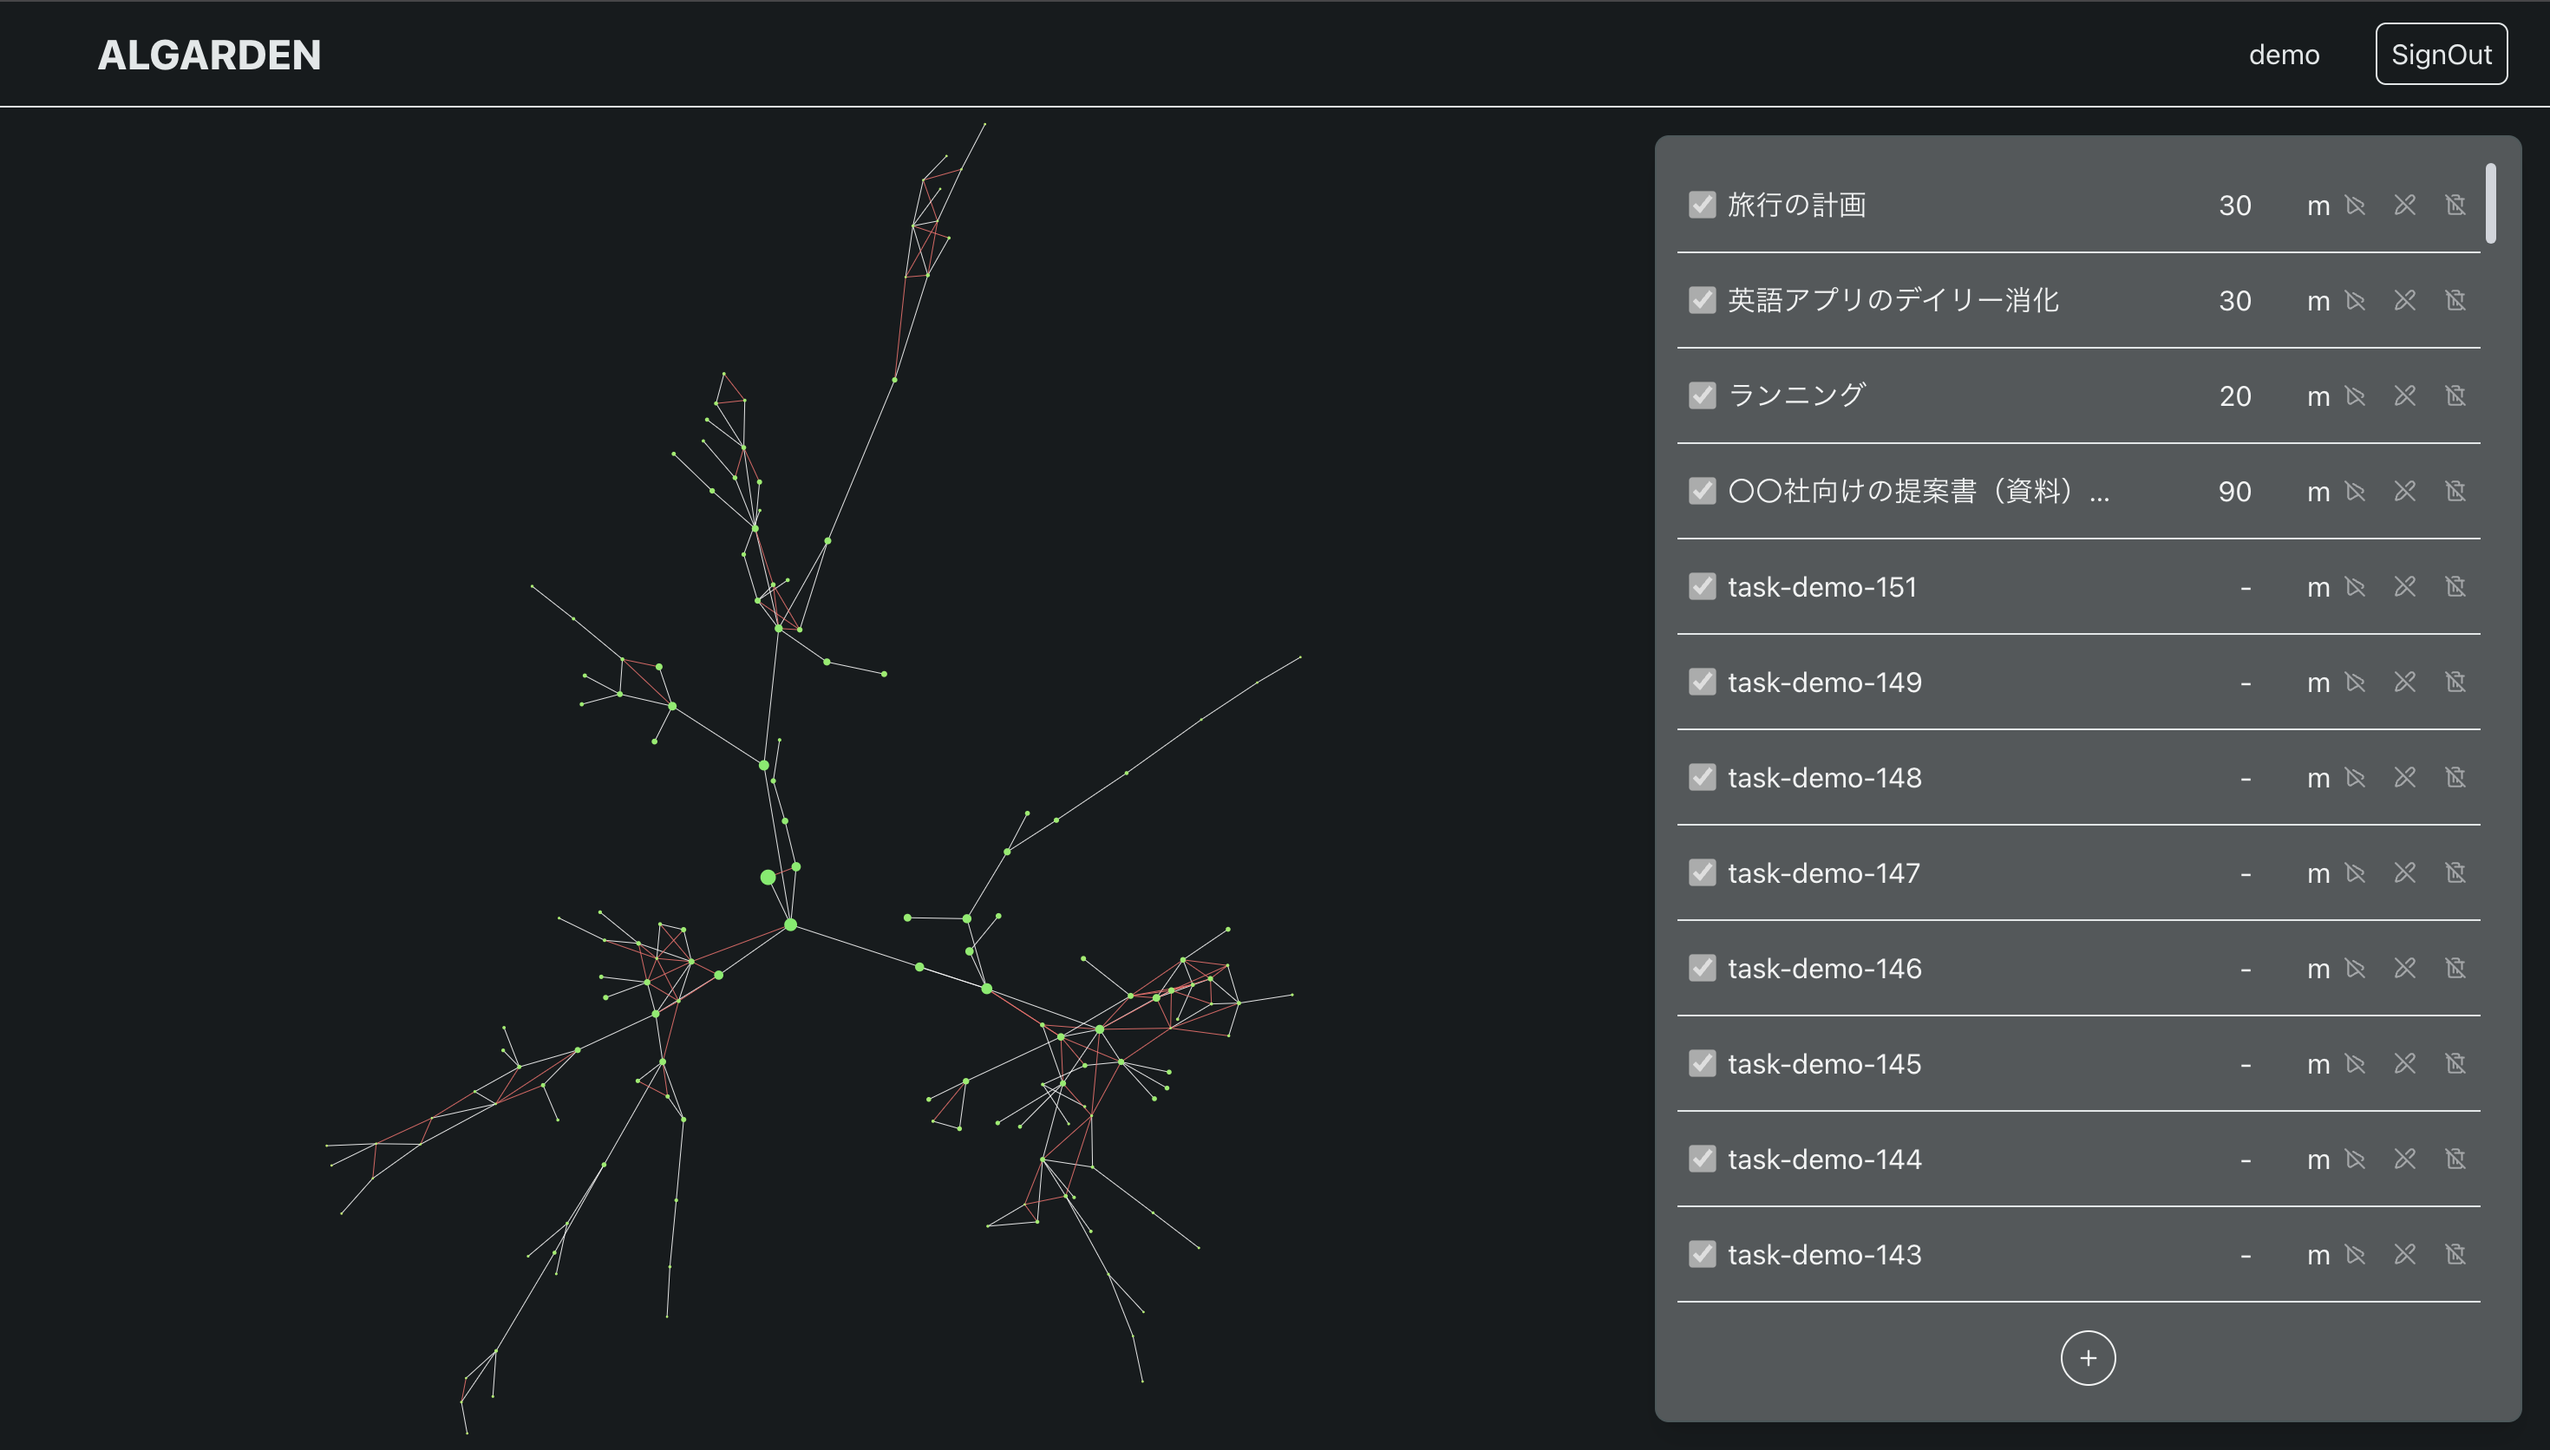
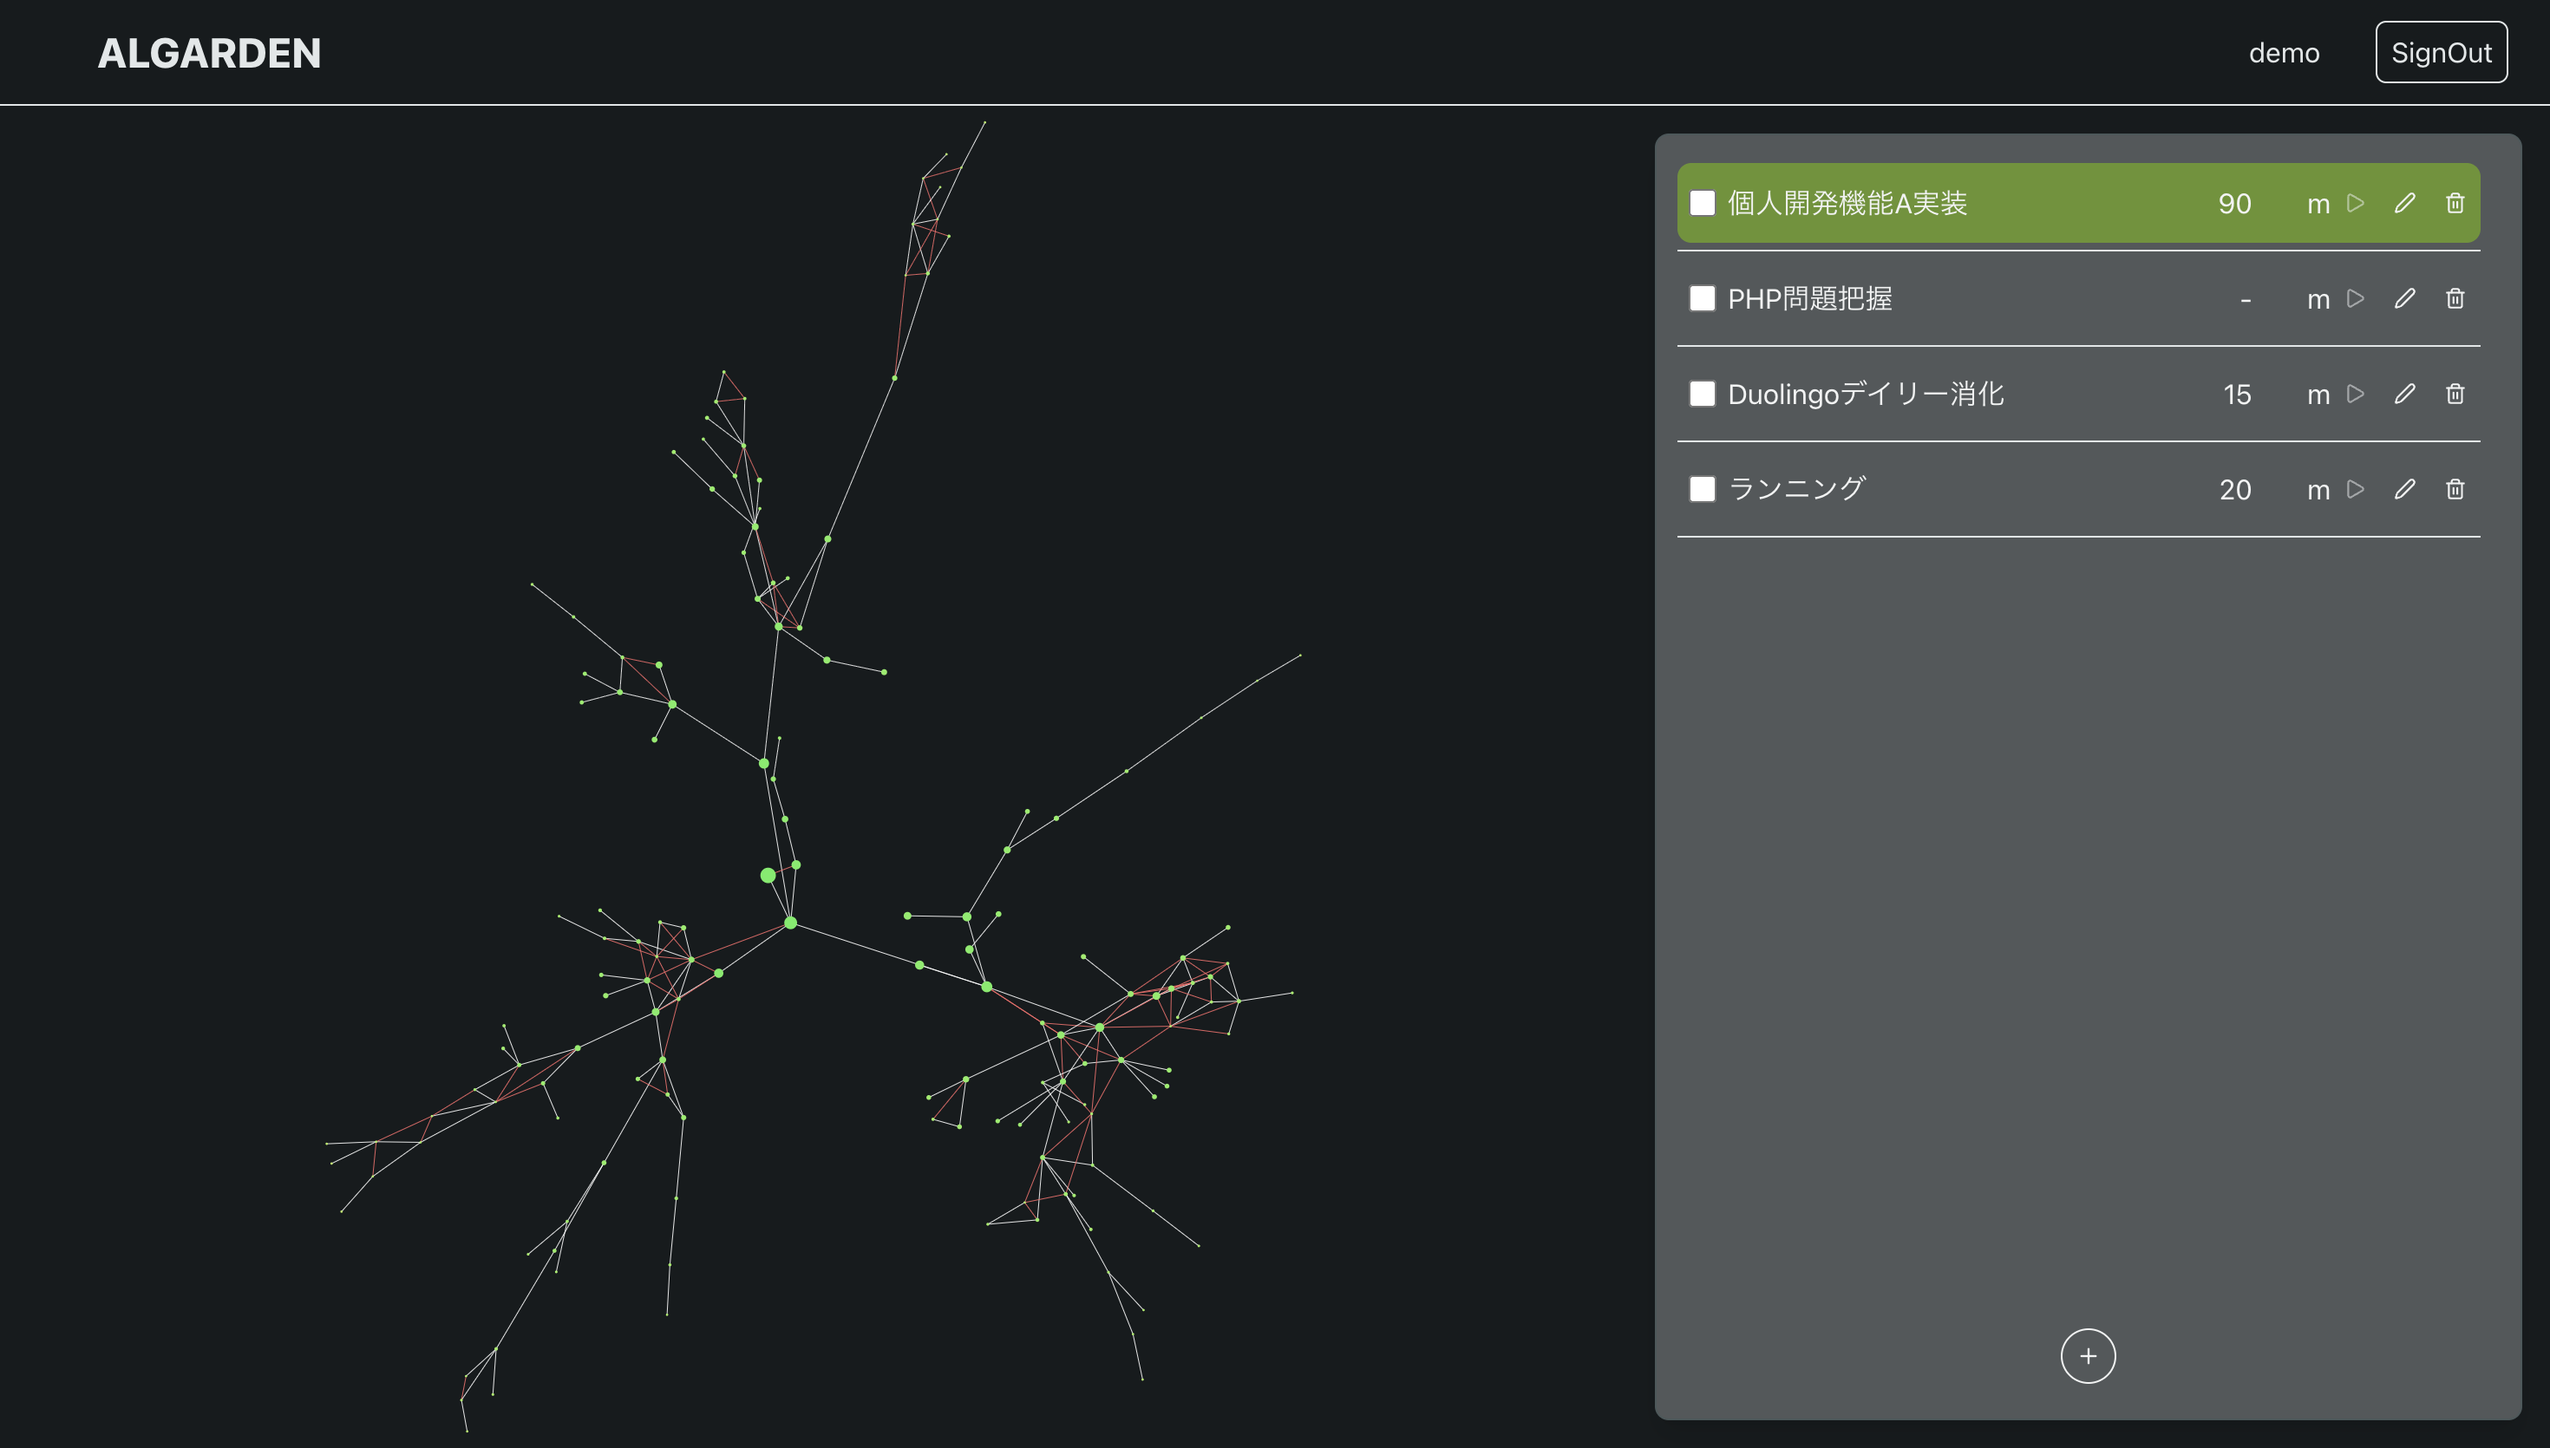
docs: update the README intro and screenshot

diff --git a/README.md b/README.md
@@ -1,8 +1,12 @@
-# AlGarden
+# ALGARDEN
 
-> 探索アルゴリズムの実行過程を、SVG で育つ「庭」として可視化する Web アプリケーション
+Todoを完了すると、アルゴリズムに従ってノードネットワークを形成していくWebアプリです。<br>
+現在スマホ対応はしていないため、PCにてご確認ください。
 
 <img src="docs/images/algarden.png" alt="育ったデモの庭" width="800">
+
+左の黒い背景が「庭」、右が「Todoリスト」です。<br>
+Todo を1つ完了するたびに、庭に「ノードネットワーク」が形成されます。
 
 ## デモ
 
